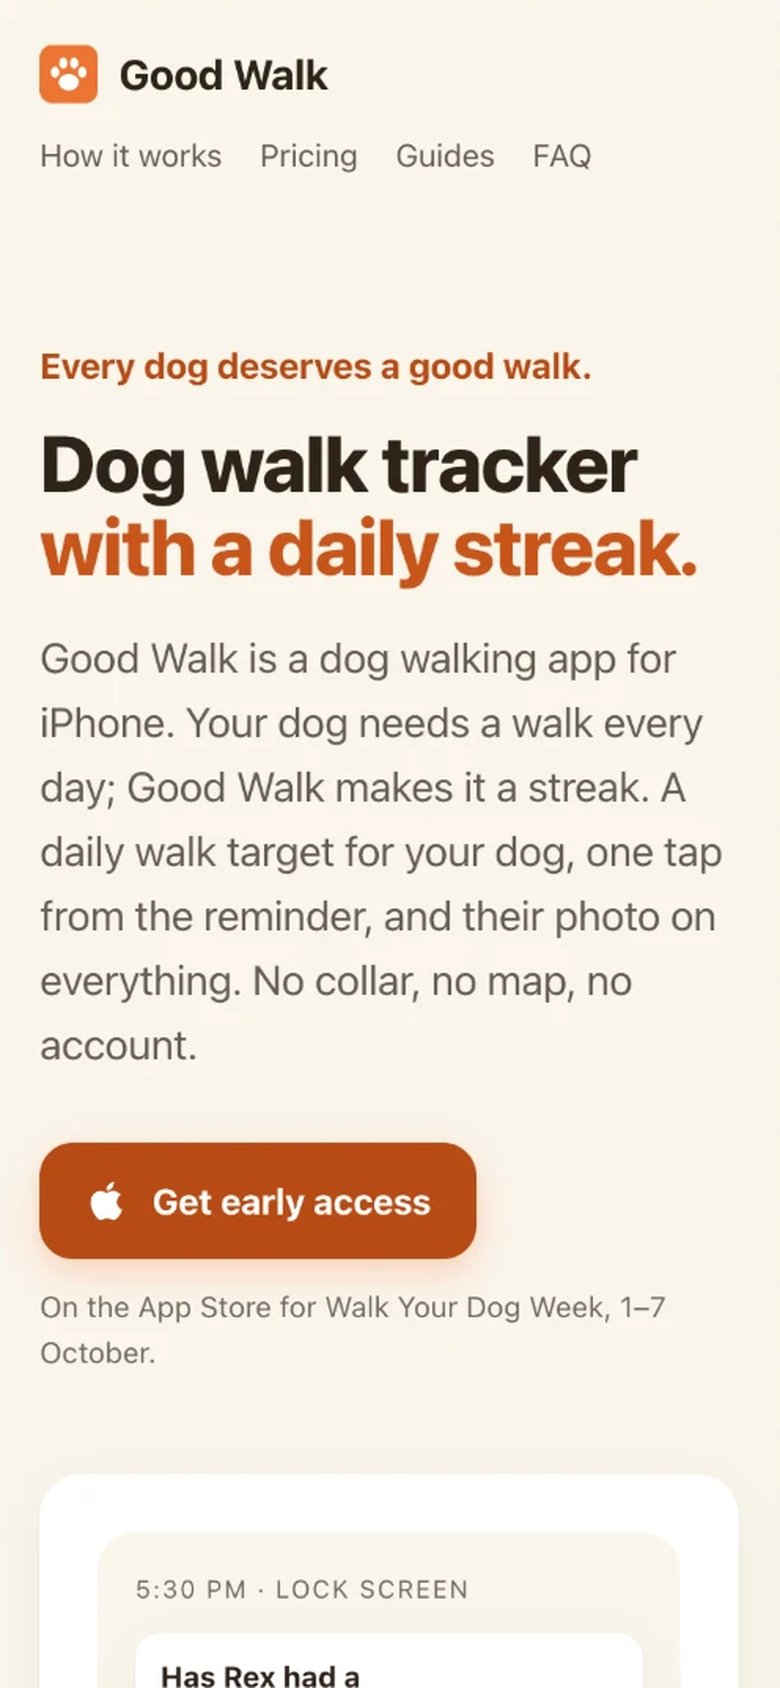
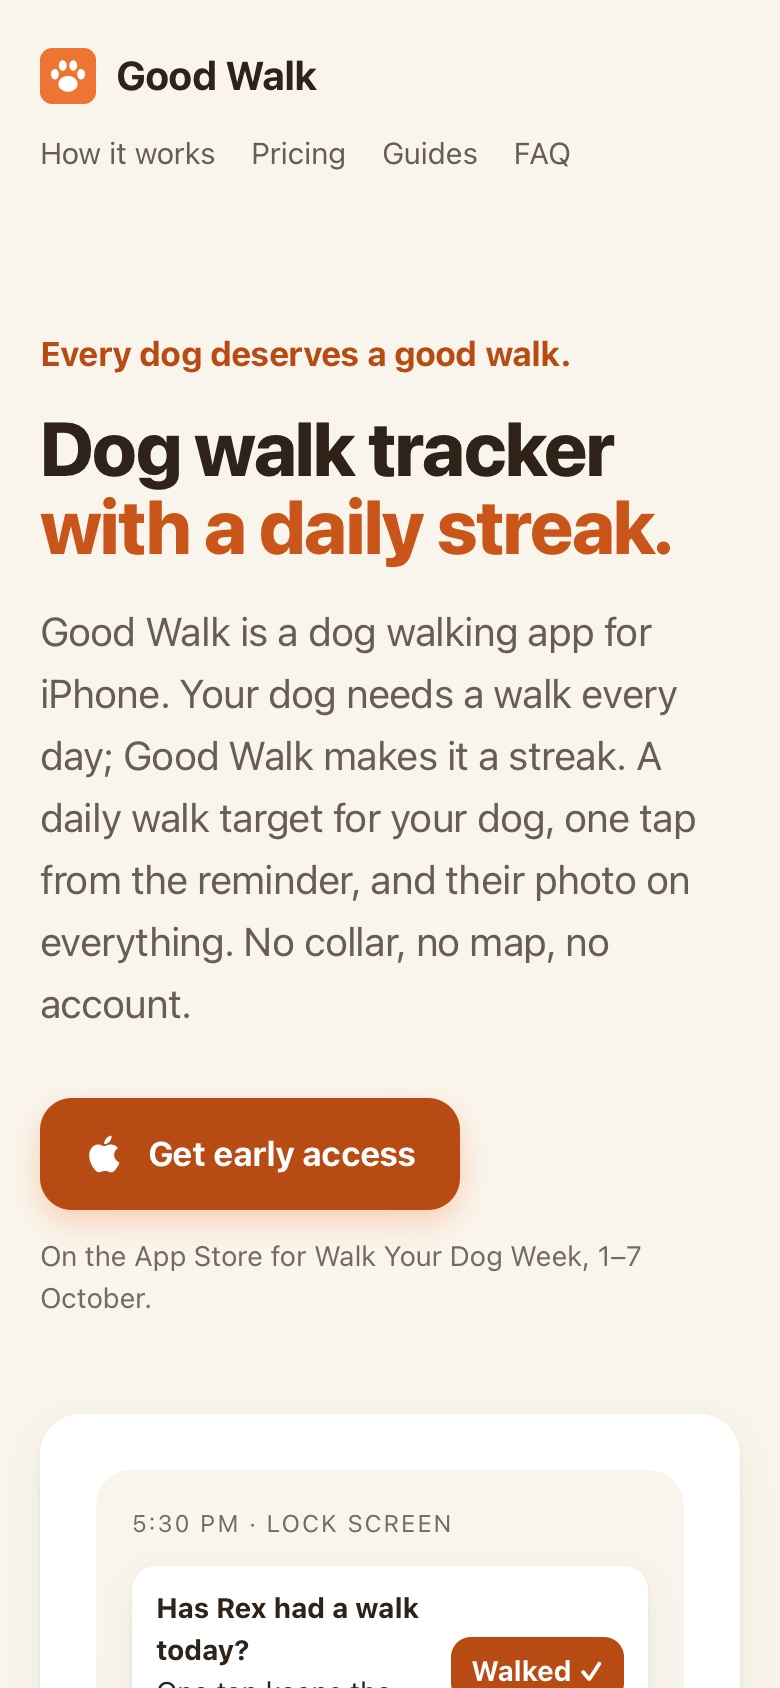
AI/Projects: Damp gets a full story; Good Walk links to its live site
Damp moves from a Coming soon tile to a full story with real app screens, site
shots of usedamp.app, a case study and an Apps entry. Good Walk gets a real desktop
site shot, a refreshed mobile shot and links now that getgoodwalk.app is live.

diff --git a/src/data/showcase.ts b/src/data/showcase.ts
@@ -144,9 +144,9 @@ export const projects: Project[] = [
       screen: 'goodwalk-home',
     },
     siteShot: {
-      desktop: '/showcase/goodwalk-site-mobile.jpg',
+      desktop: '/showcase/goodwalk-site.jpg',
       mobile: '/showcase/goodwalk-site-mobile.jpg',
-      caption: 'getgoodwalk.app, previewed before launch: a landing page with how it works, pricing and an FAQ, three dog-walking guides, and privacy and terms pages.',
+      caption: 'getgoodwalk.app, live: a landing page with how it works, pricing and an FAQ, three dog-walking guides, a support page, and privacy and terms. Served from GitHub Pages.',
       url: 'https://getgoodwalk.app',
     },
     features: [
@@ -175,12 +175,71 @@ export const projects: Project[] = [
     steps: [
       { title: 'Pick the idea', ai: 'Turned one sentence into a concept: a daily walk streak for your dog, nothing else.', me: '“A dog walk tracker. Keep it simple.”' },
       { title: 'Design the loop', ai: 'Worked out the reminder, the one-tap answer and what the streak screen shows.', me: 'Insisted on no collar, no map and no account.' },
-      { title: 'Build the site first', ai: 'Wrote the landing page, three guides, FAQ, privacy and terms, then served a preview from the Mac.', me: 'Reviewed it in the browser pane and bought getgoodwalk.app.' },
+      { title: 'Build the site first', ai: 'Wrote the landing page, three guides, FAQ, privacy and terms, then served a preview from the Mac.', me: 'Reviewed it in the browser pane, bought getgoodwalk.app and set the prices.' },
       { title: 'Ship for the week', ai: 'Prepares the App Store listing and the launch checklist.', me: 'Launch target: Walk Your Dog Week, 1 to 7 October.' },
     ],
-    links: [],
+    links: [
+      { label: 'getgoodwalk.app', href: 'https://getgoodwalk.app', primary: true },
+      { label: 'Source on GitHub', href: 'https://github.com/nickstrom5/goodwalk' },
+    ],
     status: 'In development · App Store launch planned for 1 to 7 October 2026',
     caseStudy: 'goodwalk-dog-walk-tracker',
+  },
+  {
+    id: 'damp',
+    name: 'Damp',
+    kicker: 'iPhone app · drink less tracker',
+    tileBlurb: 'Drink less. Not never. One tap a night.',
+    bg: 'linear-gradient(135deg, #0f121a 0%, #12161f 55%, #0f2a22 100%)',
+    fg: '#7de8b8',
+    hero: {
+      title: 'Drink less. Not never.',
+      sub: 'Damp is a dry days tracker for people who want to cut back without quitting. A nine o’clock check-in, one tap from the notification, and a running count of dry nights, money kept and calories skipped. No account, no coach, no judgment.',
+      screen: 'image',
+      image: '/showcase/damp-home.jpg',
+    },
+    siteShot: {
+      desktop: '/showcase/damp-site.jpg',
+      mobile: '/showcase/damp-site-mobile.jpg',
+      caption: 'usedamp.app, live: landing page, a drinking cost calculator, guides on damp drinking and Dry January, support, privacy and terms. Served from GitHub Pages.',
+      url: 'https://usedamp.app',
+    },
+    features: [
+      {
+        eyebrow: 'The reveal',
+        title: 'Your number, in your money.',
+        body: 'Onboarding asks how many drinks a week and what one costs, then shows the year: what you spend, what that is in days of food, and what four dry nights a week gives back. It is the screen people screenshot, and it comes before the paywall.',
+        screen: 'image',
+        image: '/showcase/damp-reveal.jpg',
+      },
+      {
+        eyebrow: 'Milestones',
+        title: 'A card worth posting.',
+        body: 'Streaks of 1, 3, 7, 14, 30, 60, 100 and 365 dry nights each get a share card. A drinking night is a number, not a failure: the streak resets, the savings and the history stay.',
+        screen: 'image',
+        image: '/showcase/damp-milestone.jpg',
+        flip: true,
+      },
+    ],
+    split: {
+      ai: 95,
+      aiLabel: 'Claude Code',
+      meLabel: 'Nick',
+      aiDid: 'Picked the category from the same playbook as Clam, wrote the strategy and naming notes, the nine onboarding screens, the SwiftUI app and widget, StoreKit 2 paywall, unit tests, CI, the landing site with its guides and support page, and the launch kit.',
+      meDid: 'Kept the name when the first domains were taken, chose usedamp.app, set one price across every app, asked for support and feedback options, ran the DNS setup and made every yes or no along the way.',
+    },
+    steps: [
+      { title: 'Pick the idea', ai: 'Ran the playbook: a daily felt problem, proven spend, a seven-second demo, no backend. Chose drinking less over quitting.', me: '“Follow the same process we did for Clam, but make an entirely new app idea.”' },
+      { title: 'Name it twice', ai: 'Proposed Damp, tried a rename when asked, then checked domain registries and found usedamp.app free.', me: '“I like Damp a lot but domains were taken.”' },
+      { title: 'Build and check', ai: 'Generated the app, widget and tests, captured every screen in the simulator and walked the onboarding end to end.', me: 'Reviewed the screens and the site, changed the prices.' },
+      { title: 'Put it live', ai: 'Created the repo, turned on Pages, wrote a setup script that reads the Cloudflare token from the clipboard, enforced HTTPS.', me: 'Bought the domain, made the token, clicked Run.' },
+    ],
+    links: [
+      { label: 'usedamp.app', href: 'https://usedamp.app', primary: true },
+      { label: 'Source on GitHub', href: 'https://github.com/nickstrom5/damp' },
+    ],
+    status: 'In development · App Store link goes live with the listing',
+    caseStudy: 'damp-drink-less-tracker',
   },
   {
     id: 'launchneat',
@@ -398,15 +457,6 @@ export const projects: Project[] = [
       { label: 'You’re on it', href: '/', primary: true },
     ],
     status: 'Live · updated by prompt',
-  },
-  {
-    id: 'damp',
-    name: 'Damp',
-    kicker: 'iPhone app · in the works',
-    tileBlurb: 'The next app in the same experiment. Built the same way: one sentence in, a real product out.',
-    bg: 'linear-gradient(135deg, #0f2233 0%, #12161f 60%, #0d2a3a 100%)',
-    fg: '#5fb8e6',
-    comingSoon: true,
   },
   {
     id: 'lume',

diff --git a/src/content/projects/damp-drink-less-tracker.md b/src/content/projects/damp-drink-less-tracker.md
@@ -1,0 +1,35 @@
+---
+title: 'Damp: a drink less tracker for iPhone'
+shortTitle: 'Damp: drink less tracker'
+client: 'Own product · usedamp.app'
+summary: 'One-tap dry-night tracker for people who want to cut back without quitting. A nightly check-in you can answer from the notification, streaks, money kept and milestone cards. No account, no backend.'
+category: 'development'
+platforms: ['iOS']
+stack: ['SwiftUI', 'StoreKit 2', 'WidgetKit', 'App Intents', 'UserNotifications', 'Claude Code']
+year: 2026
+featured: false
+source: 'personal'
+links:
+  live: 'https://usedamp.app'
+placeholder: false
+---
+
+## An AI experiment
+
+Damp is part of the same experiment as Clam: how far can AI carry a real product? Roughly 95 percent of the strategy, copy, Swift code, tests, site and launch material was generated by Claude Code from one instruction, "follow the same process we did for Clam, but make an entirely new app idea". I directed, reviewed and made the calls. The full process is on the [AI/Projects page](/apps/#damp).
+
+## The idea
+
+Every app in this category sells quitting. Most people just want fewer drinking nights and less regret the morning after. Damp counts nights, not drinks. At nine o'clock your phone asks "Dry tonight?" and you answer from the notification. A dry night adds to the streak and to the money you kept, worked out from your own numbers. A drinking night is logged as a number, not a relapse: the streak resets, the savings and the history stay.
+
+## What got built
+
+- The SwiftUI app: a nine-step onboarding that turns drinks a week and price per drink into a yearly figure before the paywall, a StoreKit 2 subscription flow with a lifetime option, the home screen with a week strip and one button, a drinks log sheet, milestone share cards and settings with a Help section.
+- A nightly local notification with two actions, so logging never needs the app open, plus a Home Screen widget and a Siri and Action Button intent.
+- Everything derived from a local log: streaks, money kept and calories skipped are recomputed, never stored, and nothing leaves the phone.
+- Unit tests for the streak and savings maths, a CI build, and a screenshot mode that opens any screen with seeded data.
+- The launch kit: strategy and naming notes, App Store listing, launch videos, creator outreach, and a landing site with a drinking cost calculator, two guides, support, privacy and terms on GitHub Pages.
+
+## Status
+
+In development. The app builds and passes its tests in the simulator and the site is live at usedamp.app. Next is the first run on a physical iPhone and the App Store Connect setup. Free for seven days, then a yearly, monthly or lifetime purchase.
